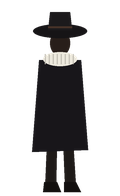
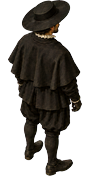
Pesquisidor pintado por ChatGPT y personajes colocados por los pies
- arte/personajes/pesquisidor_se/ne.png salen de la pintura de ChatGPT
  (original en arte/entrada/personajes/pesquisidor_poses.png).
- procesar_arte.py poses: parte la imagen de dos poses, les da la misma escala
  y centra cada dibujo en los pies (centro de masa del quinto inferior), no en
  la caja, para que la capa no lo desplace al girarlo en espejo.
- Personaje.cs calcula el desplazamiento del dibujo a partir de su tamaño, así
  cada dibujo puede medir distinto; fuera los offset fijos de las escenas.
- arte_provisional.py ya no pisa a los personajes que estén pintados.

Claude-Session: https://claude.ai/code/session_01V3PygkCYmhoYvk1KoaBkFa

diff --git a/herramientas/procesar_arte.py b/herramientas/procesar_arte.py
@@ -8,10 +8,15 @@
     python3 herramientas/procesar_arte.py figura entrada.png arte/personajes/x_se.png --altura 1.92
     (--altura en metros: alto TOTAL de la figura, sombrero incluido. Persona con sombrero ≈ 1,92.)
 
+  Las dos poses de un personaje en una imagen (frente a la izquierda, espaldas a la derecha):
+    python3 herramientas/procesar_arte.py poses entrada.png arte/personajes/x
+    (escribe x_se.png y x_ne.png con la misma escala)
+
 Si la imagen ya trae transparencia, se respeta. Si no, se toma como fondo el color
 de las esquinas y se borra todo lo que se le parezca y esté conectado con ellas.
 """
 import argparse
+import math
 import sys
 from collections import deque
 from pathlib import Path
@@ -92,35 +97,70 @@ def quitar_fondo(img: Image.Image, tolerancia: float) -> Image.Image:
     return Image.fromarray(salida, "RGBA")
 
 
-def figura(entrada: Path, salida: Path, altura_m: float, tolerancia: float):
-    img = quitar_fondo(Image.open(entrada), tolerancia)
+def recortar(img: Image.Image) -> Image.Image:
     caja = img.split()[3].point(lambda v: 255 if v > 24 else 0).getbbox()
     if caja is None:
         sys.exit("No queda nada tras quitar el fondo: prueba con más --tolerancia o un fondo más liso.")
-    img = img.crop(caja)
-    alto_px = round(altura_m * ZH)
-    escala = alto_px / img.height
-    img = img.resize((max(1, round(img.width * escala)), alto_px), Image.LANCZOS)
-    # Lienzo con margen y los pies centrados abajo.
-    ancho = img.width + 16
-    lienzo = Image.new("RGBA", (ancho, alto_px + 6), (0, 0, 0, 0))
-    lienzo.paste(img, (8, 0), img)
+    return img.crop(caja)
+
+
+def centro_de_pies(img: Image.Image) -> float:
+    """Columna de los pies: el centro de masa del quinto inferior de la figura (piernas
+    y pies). Con capas o brazos que sobresalen de un lado, la caja no está centrada en
+    los pies y el personaje parecería desplazado al girarlo en espejo."""
+    alfa = np.asarray(img.split()[3]).astype(np.float32)
+    abajo = alfa[int(alfa.shape[0] * 0.8):]
+    xs = np.arange(alfa.shape[1], dtype=np.float32)
+    return float((abajo.sum(0) * xs).sum() / max(abajo.sum(), 1.0))
+
+
+def colocar(img: Image.Image, escala: float, salida: Path):
+    """Escala la figura y la pone en un lienzo con los pies centrados en horizontal y
+    5 px de margen bajo las suelas: el origen del Personaje (los pies) queda en
+    (ancho / 2, alto − 5). Personaje.cs calcula el desplazamiento con esa regla."""
+    alto = round(img.height * escala)
+    img = img.resize((max(1, round(img.width * escala)), alto), Image.LANCZOS)
+    pies = centro_de_pies(img)
+    medio = math.ceil(max(pies, img.width - pies)) + 8
+    lienzo = Image.new("RGBA", (2 * medio, alto + 6), (0, 0, 0, 0))
+    lienzo.paste(img, (round(medio - pies), 0), img)
     lienzo.save(salida)
     print(f"Figura guardada: {salida} ({lienzo.width} × {lienzo.height}).")
-    print(f"En Godot, Cuerpo: centered = false, offset = Vector2({-lienzo.width // 2}, {-(alto_px + 1)})")
+
+
+def figura(entrada: Path, salida: Path, altura_m: float, tolerancia: float):
+    img = recortar(quitar_fondo(Image.open(entrada), tolerancia))
+    colocar(img, altura_m * ZH / img.height, salida)
+
+
+def poses(entrada: Path, base: Path, altura_m: float, tolerancia: float):
+    """Las dos poses de un personaje en una sola imagen (como las pide la guía): a la
+    izquierda de frente (SE), a la derecha de espaldas (NE). Las dos llevan la misma
+    escala, la de la más alta, para que el personaje no cambie de tamaño al girarse."""
+    img = quitar_fondo(Image.open(entrada), tolerancia)
+    mitad = img.width // 2
+    frente = recortar(img.crop((0, 0, mitad, img.height)))
+    espalda = recortar(img.crop((mitad, 0, img.width, img.height)))
+    escala = altura_m * ZH / max(frente.height, espalda.height)
+    if abs(frente.height - espalda.height) > 0.04 * max(frente.height, espalda.height):
+        print(f"Aviso: las dos poses no miden lo mismo ({frente.height} y {espalda.height} px); revísalas.")
+    colocar(frente, escala, base.with_name(base.name + "_se.png"))
+    colocar(espalda, escala, base.with_name(base.name + "_ne.png"))
 
 
 def main():
     ap = argparse.ArgumentParser(description=__doc__, formatter_class=argparse.RawDescriptionHelpFormatter)
-    ap.add_argument("tipo", choices=["fondo", "figura"])
+    ap.add_argument("tipo", choices=["fondo", "figura", "poses"])
     ap.add_argument("entrada", type=Path)
-    ap.add_argument("salida", type=Path)
+    ap.add_argument("salida", type=Path, help="con «poses», la base del nombre (arte/personajes/x → x_se.png y x_ne.png)")
     ap.add_argument("--altura", type=float, default=1.92, help="alto total de la figura en metros")
     ap.add_argument("--tolerancia", type=float, default=48.0, help="cuánto puede variar el color del fondo")
     a = ap.parse_args()
     a.salida.parent.mkdir(parents=True, exist_ok=True)
     if a.tipo == "fondo":
         fondo(a.entrada, a.salida)
+    elif a.tipo == "poses":
+        poses(a.entrada, a.salida, a.altura, a.tolerancia)
     else:
         figura(a.entrada, a.salida, a.altura, a.tolerancia)
 

diff --git a/codigo/Juego/Personaje.cs b/codigo/Juego/Personaje.cs
@@ -10,7 +10,7 @@ namespace Alcala.Juego;
 /// El caminar se anima por código (balanceo), así que no hacen falta fotogramas.
 ///
 /// Hijos esperados: «Cuerpo» (Sprite2D) y, opcionalmente, «Sombra» (Sprite2D).
-/// El origen del nodo está en los pies.
+/// El origen del nodo está en los pies; el desplazamiento del dibujo se calcula solo.
 /// </summary>
 [GlobalClass]
 public partial class Personaje : Node2D
@@ -20,6 +20,9 @@ public partial class Personaje : Node2D
     [Export] public float Velocidad { get; set; } = 240f;
     [Export] public bool MiraIzquierda { get; set; }
     [Export] public bool DeEspaldas { get; set; }
+
+    /// <summary>Píxeles transparentes bajo las suelas en los dibujos (procesar_arte.py).</summary>
+    private const float MargenPies = 5f;
 
     private Sprite2D cuerpo = null!;
     private readonly Queue<Vector2> ruta = new();
@@ -127,6 +130,14 @@ public partial class Personaje : Node2D
         Texture2D? textura = DeEspaldas && Espalda is not null ? Espalda : Frente;
         if (textura is not null && cuerpo.Texture != textura)
             cuerpo.Texture = textura;
+        if (cuerpo.Texture is not null)
+        {
+            // Regla de procesar_arte.py: pies centrados en horizontal y 5 px de margen
+            // bajo las suelas. Así cada dibujo puede tener su tamaño y el espejo no lo mueve.
+            Vector2 tam = cuerpo.Texture.GetSize();
+            cuerpo.Centered = false;
+            cuerpo.Offset = new Vector2(-tam.X / 2f, -(tam.Y - MargenPies));
+        }
         cuerpo.FlipH = MiraIzquierda;
     }
 }

diff --git a/herramientas/arte_provisional.py b/herramientas/arte_provisional.py
@@ -247,12 +247,21 @@ def main():
     (RAIZ / "arte/personajes").mkdir(parents=True, exist_ok=True)
     (RAIZ / "arte/objetos").mkdir(parents=True, exist_ok=True)
 
-    pesquisidor(False).save(RAIZ / "arte/personajes/pesquisidor_se.png")
-    pesquisidor(True).save(RAIZ / "arte/personajes/pesquisidor_ne.png")
-    alguacil().save(RAIZ / "arte/personajes/alguacil_se.png")
-    cadaver().save(RAIZ / "arte/objetos/cadaver.png")
+    # Lo que ya está pintado (su original en arte/entrada/personajes/) no se pisa.
+    pintado = RAIZ / "arte/entrada/personajes"
+    hechos = []
+    for nombre, dibujar in (("pesquisidor", lambda: (pesquisidor(False), pesquisidor(True))),
+                            ("alguacil", lambda: (alguacil(),))):
+        if (pintado / f"{nombre}_poses.png").exists():
+            continue
+        for dibujo, sufijo in zip(dibujar(), ("se", "ne")):
+            dibujo.save(RAIZ / f"arte/personajes/{nombre}_{sufijo}.png")
+        hechos.append(nombre)
+    if not (pintado / "cadaver.png").exists():
+        cadaver().save(RAIZ / "arte/objetos/cadaver.png")
+        hechos.append("cadáver")
     sombra().save(RAIZ / "arte/objetos/sombra.png")
-    print("Arte provisional generado.")
+    print("Arte provisional generado: " + ", ".join(hechos + ["sombra"]) + ".")
 
 
 if __name__ == "__main__":

diff --git a/herramientas/generar_calle_mayor.py b/herramientas/generar_calle_mayor.py
@@ -85,7 +85,7 @@ nodo("Alguacil", "Node2D", "Entidades", position=v2(alg), script=recurso("Script
      Frente=textura_alg, MiraIzquierda="true")
 nodo("Sombra", "Sprite2D", "Entidades/Alguacil", texture=recurso("Texture2D", "res://arte/objetos/sombra.png"),
      position="Vector2(0, -2)")
-nodo("Cuerpo", "Sprite2D", "Entidades/Alguacil", texture=textura_alg, centered="false", offset="Vector2(-58, -191)")
+nodo("Cuerpo", "Sprite2D", "Entidades/Alguacil", texture=textura_alg, centered="false")
 # Posición del cristal del farol en el dibujo del alguacil (está en espejo: queda a la izquierda).
 parpadeo = recurso("Script", "res://codigo/Juego/Parpadeo.cs")
 nodo("Farol", "PointLight2D", "Entidades/Alguacil", position="Vector2(-24.0, -66.0)", script=parpadeo,

diff --git a/docs/GUIA_ARTE.md b/docs/GUIA_ARTE.md
@@ -109,7 +109,8 @@ transparente o magenta y con la plantilla de perspectiva adjunta para la escala.
 1. Piezas: `herramientas/procesar_pieza.py <pieza> <imagen>` quita el magenta, encaja la
    pintura sobre la silueta, mide cuánto coincide (por debajo del 92 % no la acepta) y
    la deja en `arte/piezas/`. Figuras: `herramientas/procesar_arte.py` (sin fondo y a la
-   altura del juego).
+   altura del juego); con `poses`, la imagen con las dos poses se parte en `_se` y `_ne`
+   con la misma escala y los pies centrados (el juego coloca el dibujo por los pies).
 2. La zona por la que se camina, los obstáculos y los recortes que tapan al pesquisidor
    (columnas, el carro en tiras) salen de la misma geometría que la pieza.
 3. Coloco los puntos de interés, las luces que parpadean y el punto de entrada.

diff --git a/CLAUDE.md b/CLAUDE.md
@@ -32,6 +32,7 @@ python3 herramientas/procesar_pieza.py casa_3 pintada.png   # mete una pieza rep
 python3 herramientas/arte_provisional.py            # personajes y objetos provisionales
 python3 herramientas/plantillas_arte.py              # plantillas para ChatGPT (docs/arte)
 python3 herramientas/procesar_arte.py fondo|figura entrada.png salida.png
+python3 herramientas/procesar_arte.py poses entrada.png arte/personajes/x   # x_se.png y x_ne.png
 ```
 
 Antes de dar algo por terminado: compilar, pruebas unitarias, prueba de humo y, si
